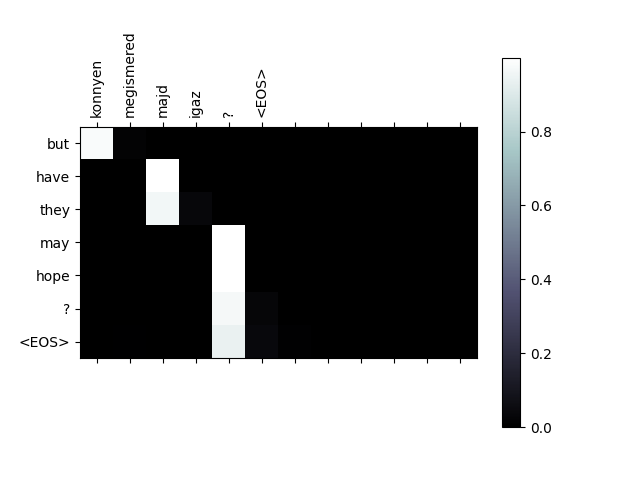
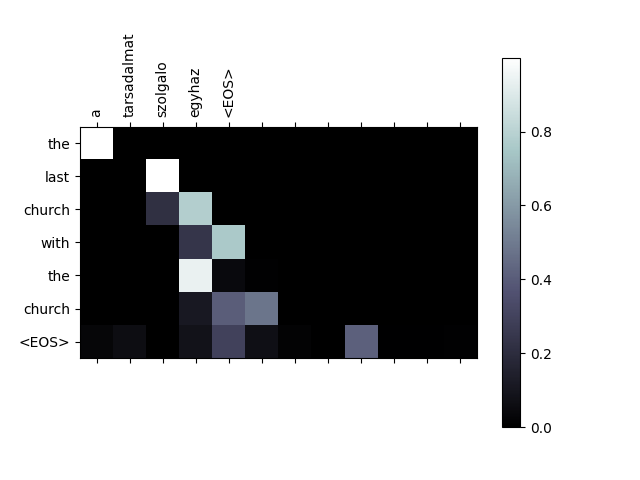
lstm 12 words

diff --git a/main.py b/main.py
@@ -63,7 +63,8 @@ def tensorFromPair(pair):
     return (input_tensor, target_tensor)
 
 def train(input_tensor, target_tensor, encoder, decoder, encoder_optimizer, decoder_optimizer, criterion):
-    encoder_hidden = encoder.initHidden()
+    encoder_h_hidden = encoder.initHidden()
+    encoder_c_hidden = encoder.initHidden()
     encoder_optimizer.zero_grad()
     decoder_optimizer.zero_grad()
 
@@ -74,25 +75,33 @@ def train(input_tensor, target_tensor, encoder, decoder, encoder_optimizer, deco
     loss = 0
 
     for ei in range(input_length):
-        encoder_output, encoder_hidden = encoder(input_tensor[ei], encoder_hidden)
+        encoder_output, encoder_hiddens = encoder(input_tensor[ei], encoder_h_hidden, encoder_c_hidden)
         encoder_outputs[ei] = encoder_output[0, 0]
+        encoder_h_hidden = encoder_hiddens[0]
+        encoder_c_hidden = encoder_hiddens[1]
+
 
     decoder_input = torch.tensor([[SOS_token]], device="cuda")
 
-    decoder_hidden = encoder_hidden
+    decoder_h_hidden = encoder_h_hidden
+    decoder_c_hidden = encoder_c_hidden
 
     use_teacher_forcing = True if random.random() < teacher_forcing_ratio else False
 
     if use_teacher_forcing:
         for di in range(target_length):
-            decoder_output, decoder_hidden, decoder_attention = decoder(decoder_input, decoder_hidden, encoder_outputs)
+            decoder_output, decoder_hiddens, decoder_attention = decoder(decoder_input, decoder_h_hidden, decoder_c_hidden, encoder_outputs)
             loss += criterion(decoder_output, target_tensor[di])
             decoder_input = target_tensor[di]
+            decoder_h_hidden = decoder_hiddens[0]
+            decoder_c_hidden = decoder_hiddens[1]
     else:
         for di in range(target_length):
-            decoder_output, decoder_hidden, decoder_attention = decoder(decoder_input, decoder_hidden, encoder_outputs)
+            decoder_output, decoder_hiddens, decoder_attention = decoder(decoder_input, decoder_h_hidden, decoder_c_hidden, encoder_outputs)
             topv, topi = decoder_output.topk(1)
             decoder_input = topi.squeeze().detach()
+            decoder_h_hidden = decoder_hiddens[0]
+            decoder_c_hidden = decoder_hiddens[1]
 
             loss += criterion(decoder_output, target_tensor[di])
             if decoder_input.item() == EOS_token:
@@ -169,23 +178,27 @@ def evaluate(encoder, decoder, sentence):
     with torch.no_grad():
         input_tensor = tensorFromSentece(input_lang, sentence)
         input_length = input_tensor.size()[0]
-        encoder_hidden = encoder.initHidden()
+        encoder_h_hidden = encoder.initHidden()
+        encoder_c_hidden = encoder.initHidden()
 
         encoder_outputs = torch.zeros(12, encoder.hidden_size, device="cuda")
 
         for ei in range(input_length):
-            encoder_output, encoder_hidden = encoder(input_tensor[ei], encoder_hidden)
+            encoder_output, encoder_hiddens = encoder(input_tensor[ei], encoder_h_hidden, encoder_c_hidden)
             encoder_outputs[ei] += encoder_output[0, 0]
+            encoder_h_hidden = encoder_hiddens[0]
+            encoder_c_hidden = encoder_hiddens[1]
 
         decoder_input = torch.tensor([[SOS_token]], device="cuda")
 
-        decoder_hidden = encoder_hidden
+        decoder_h_hidden = encoder_h_hidden
+        decoder_c_hidden = encoder_c_hidden
 
         decoded_words = []
         decoder_attentions = torch.zeros(12, 12)
 
         for di in range(12):
-            decoder_output, decoder_hidden, decoder_attention = decoder(decoder_input, decoder_hidden, encoder_outputs)
+            decoder_output, decoder_hiddens, decoder_attention = decoder(decoder_input, decoder_h_hidden, decoder_c_hidden, encoder_outputs)
             decoder_attentions[di] = decoder_attention.data
             topv, topi = decoder_output.data.topk(1)
             if topi.item() == EOS_token:
@@ -195,6 +208,8 @@ def evaluate(encoder, decoder, sentence):
                 decoded_words.append(output_lang.index2word[topi.item()])
 
             decoder_input = topi.squeeze().detach()
+            decoder_h_hidden = decoder_hiddens[0]
+            decoder_c_hidden = decoder_hiddens[1]
 
         return decoded_words, decoder_attentions[:di + 1]
 

diff --git a/DecoderRNN.py b/DecoderRNN.py
@@ -14,25 +14,25 @@ class AttnDecoderRNN(nn.Module):
         self.attn = nn.Linear(self.hidden_size * 2, 12)
         self.attn_combine = nn.Linear(self.hidden_size * 2, self.hidden_size)
         self.dropout = nn.Dropout(self.dropout_p)
-        self.gru = nn.GRU(self.hidden_size, self.hidden_size)
+        self.lstm = nn.LSTM(self.hidden_size, self.hidden_size)
         self.out = nn.Linear(self.hidden_size, self.output_size)
 
-    def forward(self, input, hidden, encoder_outputs):
+    def forward(self, input, h_hidden, c_hidden, encoder_outputs):
         embedded = self.embedding(input).view(1, 1, -1)
         embedded = self.dropout(embedded)
 
         attn_weights = F.softmax(
-            self.attn(torch.cat((embedded[0], hidden[0]), 1)), dim=1)
+            self.attn(torch.cat((embedded[0], h_hidden[0]), 1)), dim=1)
         attn_applied = torch.bmm(attn_weights.unsqueeze(0),
                                  encoder_outputs.unsqueeze(0))
         output = torch.cat((embedded[0], attn_applied[0]), 1)
         output = self.attn_combine(output).unsqueeze(0)
 
         output = F.relu(output)
-        output, hidden = self.gru(output, hidden)
+        output, hiddens = self.lstm(output, (h_hidden, c_hidden))
 
         output = F.log_softmax(self.out(output[0]), dim=1)
-        return output, hidden, attn_weights
+        return output, hiddens, attn_weights
 
     def initHidden(self):
         return torch.zeros(1, 1, self.hidden_size, device="cuda")

diff --git a/EncoderRNN.py b/EncoderRNN.py
@@ -7,13 +7,13 @@ class EncoderRNN(nn.Module):
         super(EncoderRNN, self).__init__()
         self.hidden_size = hidden_size
         self.embedding = nn.Embedding(input_size, hidden_size)
-        self.gru = nn.GRU(hidden_size, hidden_size)
+        self.lstm = nn.LSTM(hidden_size, hidden_size)
 
-    def forward(self, input, hidden):
+    def forward(self, input, h_hidden, c_hidden):
         embedded = self.embedding(input).view(1, 1, -1)
         output = embedded
-        output, hidden = self.gru(output, hidden)
-        return output, hidden
+        output, hiddens = self.lstm(output, (h_hidden, c_hidden))
+        return output, hiddens
 
     def initHidden(self):
         return torch.zeros(1, 1, self.hidden_size, device="cuda")
